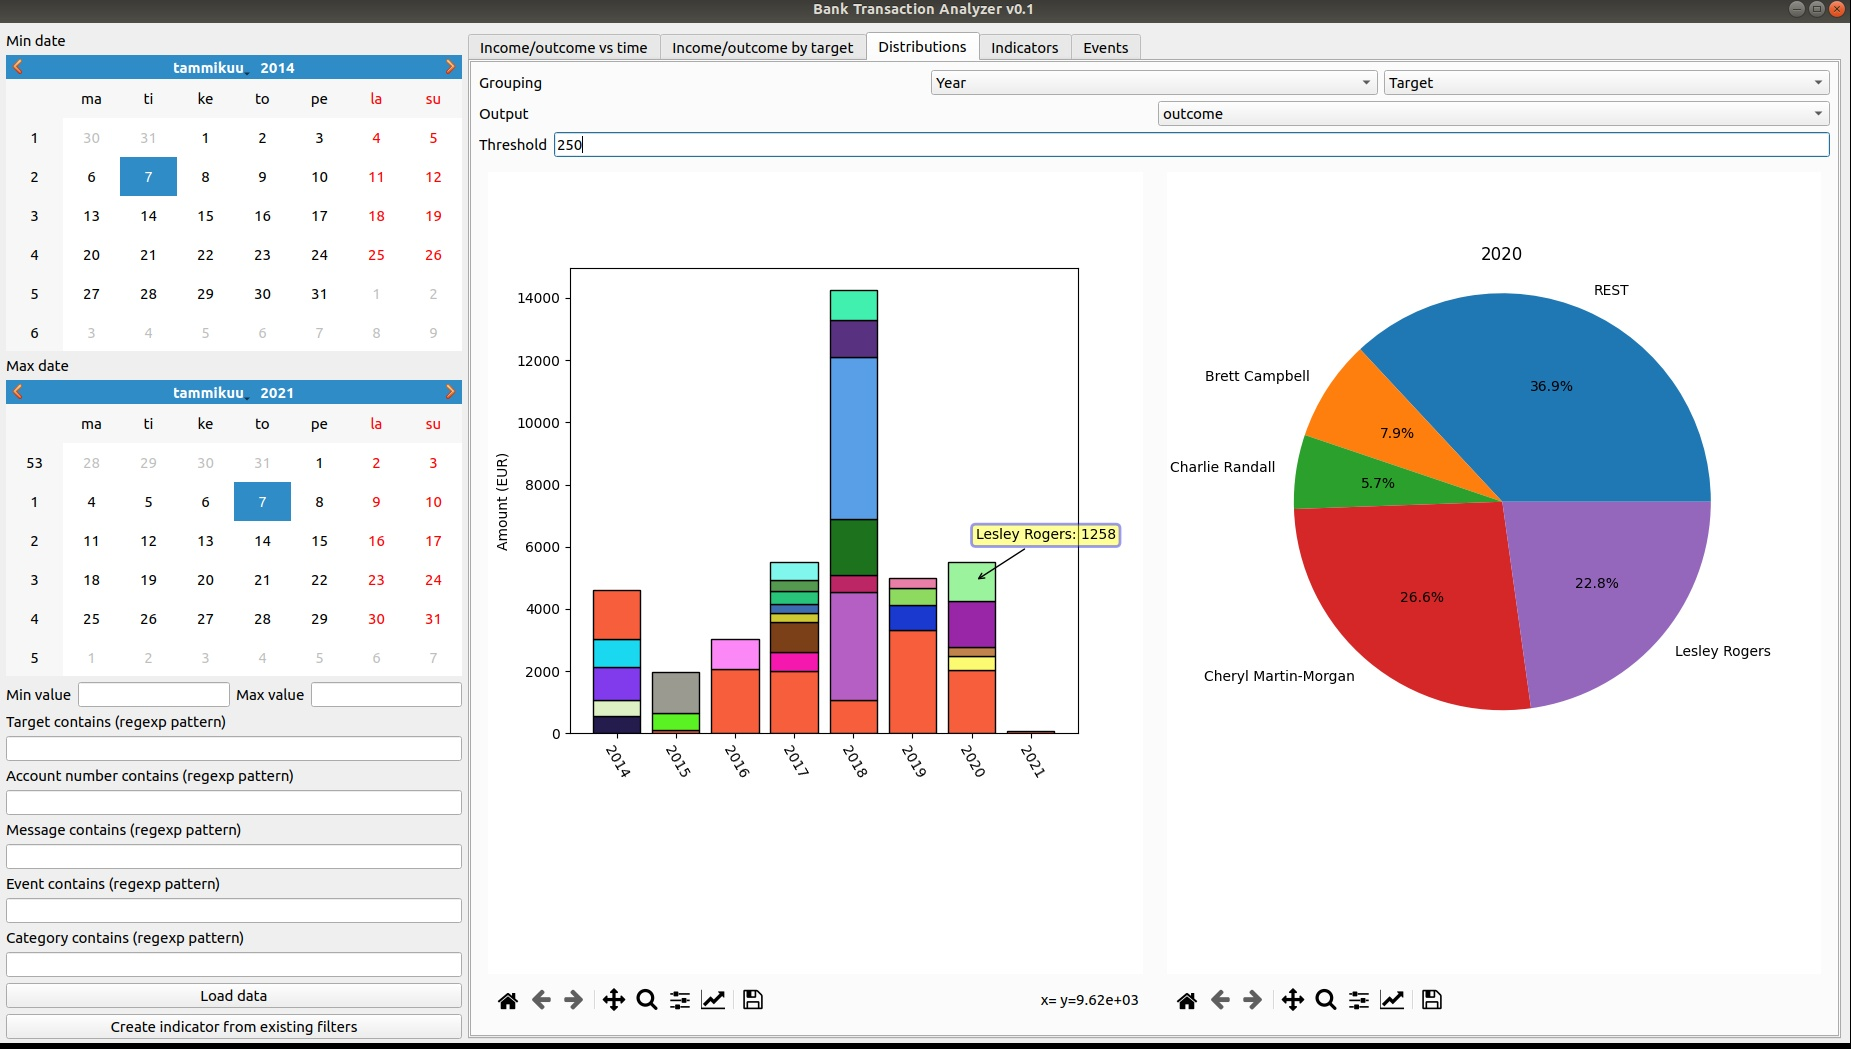
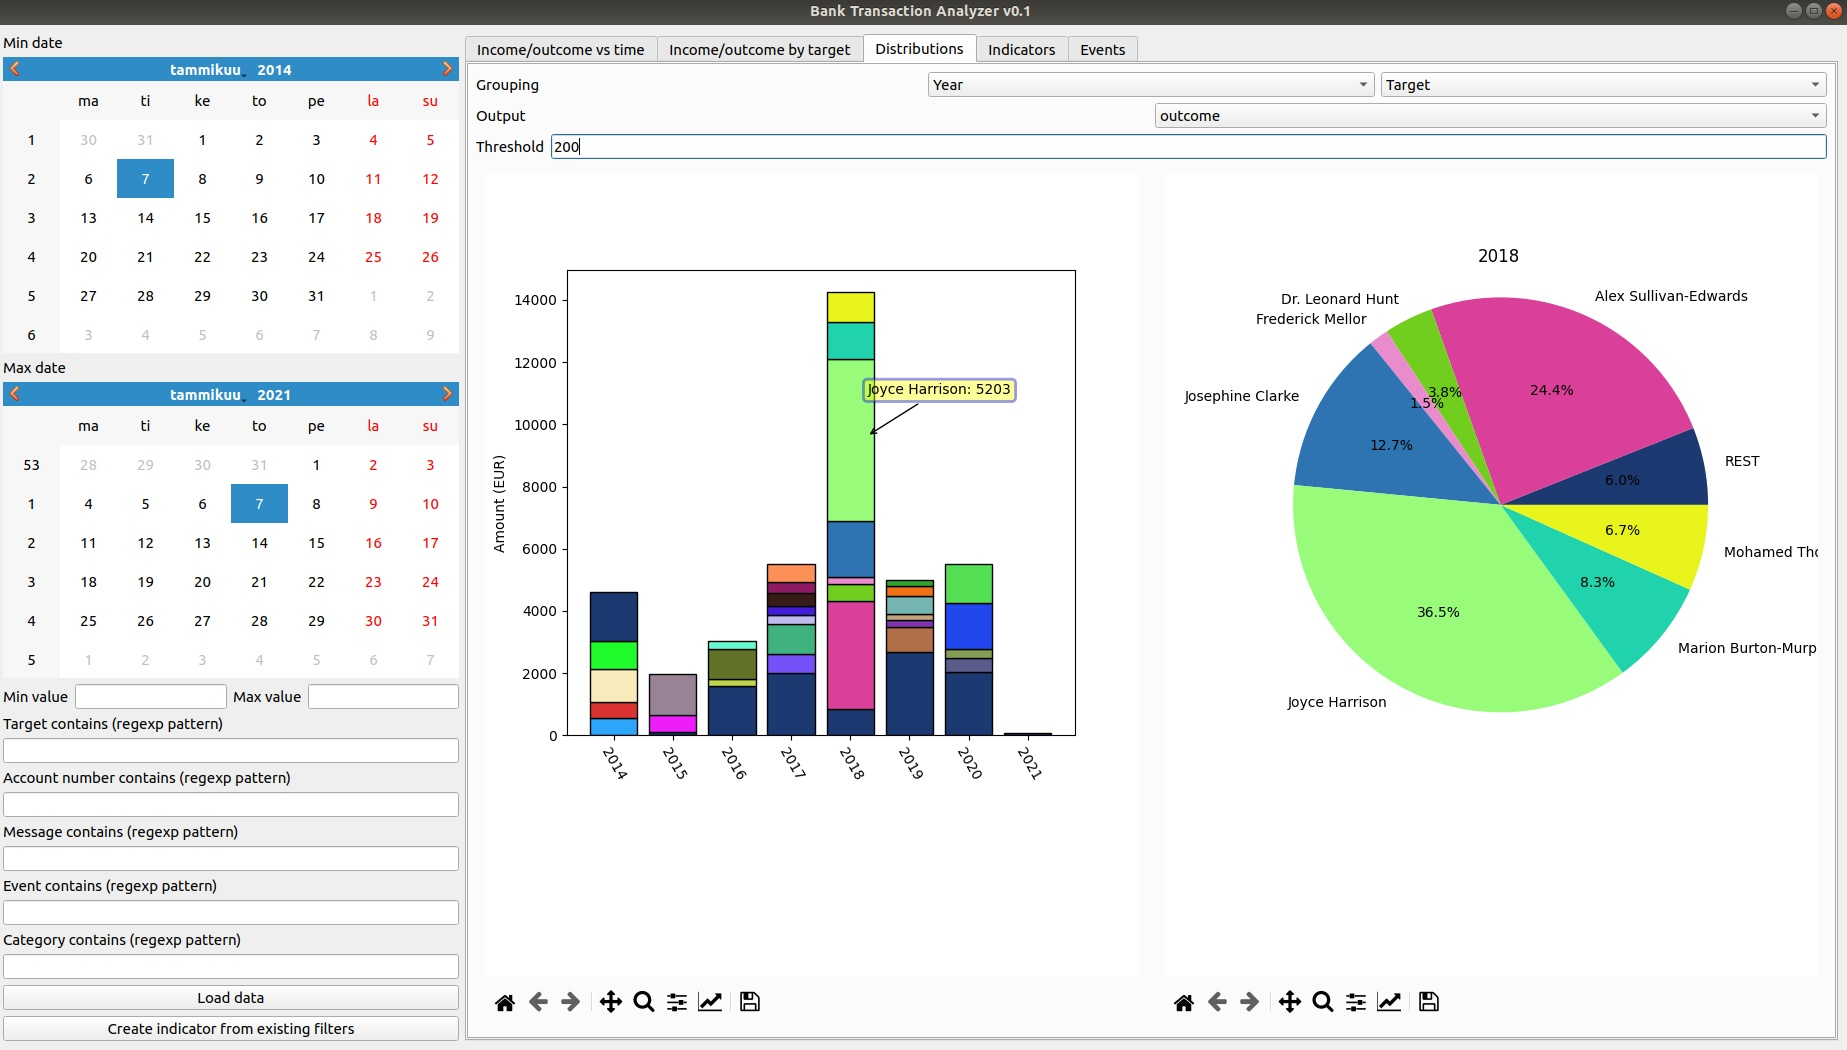
Use same colors in stacked bars and pie chart figures

diff --git a/src/gui/canvases/stacked_bar_canvas.py b/src/gui/canvases/stacked_bar_canvas.py
@@ -6,19 +6,20 @@ from src.gui.canvases.color_generation import generate_colors
 
 
 class StackedBarsCanvas(BaseBarCanvas):
-    data_selected_signal = pyqtSignal(pd.Series)
+    data_selected_signal = pyqtSignal(tuple)
 
     def __init__(self, figure_title='', x_axis_title='', y_axis_title=''):
         super().__init__(figure_title, x_axis_title, y_axis_title, add_grid=False)
         self._initialize_figure()
         self.figure.canvas.mpl_connect('pick_event', self._handle_selection)
+        self.colors = None
 
     def plot(self, data: pd.DataFrame):
         self._initialize_figure()
         self.data = data
 
-        colors = generate_colors(self.data.shape[1])
-        color_map = {target: color for target, color in zip(self.data.columns, colors)}
+        self.colors = generate_colors(self.data.shape[1])
+        color_map = {target: color for target, color in zip(self.data.columns, self.colors)}
 
         x = 0
         for _, row in self.data.iterrows():
@@ -42,8 +43,8 @@ class StackedBarsCanvas(BaseBarCanvas):
         self._update_figure()
 
     def _handle_selection(self, event):
-        if event.mouseevent.button == 3:    # right click
+        if event.mouseevent.button == 3:  # right click
             rectangle = event.artist
             index = int(rectangle.get_x() + rectangle.get_width() / 2)
             data_picked = self.data.iloc[index, :]
-            self.data_selected_signal.emit(data_picked)
+            self.data_selected_signal.emit((data_picked, self.colors))

diff --git a/src/gui/canvases/base_bar_canvas.py b/src/gui/canvases/base_bar_canvas.py
@@ -27,20 +27,21 @@ class BaseBarCanvas(BaseCanvas):
         rectangle = event.artist
         mouse_event = event.mouseevent
 
-        label = self._get_rectangle_label(rectangle)
+        if mouse_event.button == 1:  # Left-click
+            label = self._get_rectangle_label(rectangle)
 
-        self.annotation.set_visible(True)
-        height = rectangle.get_height()
-        x = mouse_event.xdata
-        y = mouse_event.ydata
-        self.annotation.xy = (x, y)
-        if label is None:
-            text = f"{height:0.0f}"
-        else:
-            text = f"{label}: {height:0.0f}"
-        self.annotation.set_text(text)
-        self.annotation.get_bbox_patch().set_alpha(0.4)
-        self.figure.canvas.draw_idle()
+            self.annotation.set_visible(True)
+            height = rectangle.get_height()
+            x = mouse_event.xdata
+            y = mouse_event.ydata
+            self.annotation.xy = (x, y)
+            if label is None:
+                text = f"{height:0.0f}"
+            else:
+                text = f"{label}: {height:0.0f}"
+            self.annotation.set_text(text)
+            self.annotation.get_bbox_patch().set_alpha(0.4)
+            self.figure.canvas.draw_idle()
 
     def _get_rectangle_label(self, rectangle):
         handles, labels = rectangle.axes.get_legend_handles_labels()

diff --git a/src/gui/tabs/distributions.py b/src/gui/tabs/distributions.py
@@ -1,4 +1,5 @@
 import pandas as pd
+import numpy as np
 from PyQt5.QtWidgets import QComboBox, QVBoxLayout, QHBoxLayout, QLabel
 
 from src.data_processing.data_analyzer import DataAnalyzer
@@ -121,6 +122,7 @@ class DistributionsTab(BaseTab):
             else:
                 self.bar_canvas.clear()
 
-    def _handle_pie_plotting(self, data: pd.Series):
-        self.pie_canvas.figure_title = data.name
-        self.pie_canvas.plot(data.values/data.sum(), data.index)
+    def _handle_pie_plotting(self, data):
+        df, colors = data
+        self.pie_canvas.figure_title = df.name
+        self.pie_canvas.plot(df.values/df.sum(), df.index, colors=np.array(colors))

diff --git a/src/gui/canvases/pie_canvas.py b/src/gui/canvases/pie_canvas.py
@@ -9,9 +9,9 @@ class PieCanvas(BaseCanvas):
         self._initialize_figure()
         self.threshold = threshold
 
-    def plot(self, y: np.ndarray, labels: np.ndarray):
+    def plot(self, y: np.ndarray, labels: np.ndarray, colors: np.ndarray, *args, **kwargs):
         self._initialize_figure()
         i = y > self.threshold
-        self.axes.pie(y[i], labels=labels[i], autopct='%1.1f%%')
+        self.axes.pie(y[i], labels=labels[i], autopct='%1.1f%%', colors=colors[i], normalize=False, *args, **kwargs)
         self.axes.axis("equal")
         self._update_figure()
